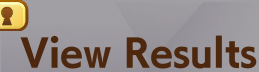
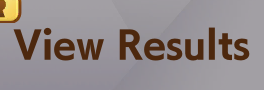
Update button images and add new buttons.

diff --git a/android/app/src/main/java/com/steve1316/uma_android_automation/components/Button.kt b/android/app/src/main/java/com/steve1316/uma_android_automation/components/Button.kt
@@ -4,6 +4,11 @@ import com.steve1316.uma_android_automation.components.ComponentInterface
 import com.steve1316.uma_android_automation.components.Template
 import com.steve1316.uma_android_automation.components.Region
 
+object ButtonAgenda : ComponentInterface {
+    override val TAG: String = "ButtonAgenda"
+    override val template = Template("components/button/agenda")
+}
+
 object ButtonAutoSelect : ComponentInterface {
     override val TAG: String = "ButtonAutoSelect"
     override val template = Template("components/button/auto_select")
@@ -181,6 +186,11 @@ object ButtonNextWithImage : ComponentInterface {
     override val template = Template("components/button/next_with_image", region = Region.bottomHalf)
 }
 
+object ButtonNextRaceEnd : ComponentInterface {
+    override val TAG: String = "ButtonNextRaceEnd"
+    override val template = Template("components/button/next_race_end", region = Region.bottomHalf)
+}
+
 object ButtonNo : ComponentInterface {
     override val TAG: String = "ButtonNo"
     override val template = Template("components/button/no", region = Region.bottomHalf)
@@ -219,11 +229,6 @@ object ButtonRaceAgain : ComponentInterface {
 object ButtonRaceDetails : ComponentInterface {
     override val TAG: String = "ButtonRaceDetails"
     override val template = Template("components/button/race_details", region = Region.bottomHalf)
-}
-
-object ButtonRaceEnd : ComponentInterface {
-    override val TAG: String = "ButtonRaceEnd"
-    override val template = Template("components/button/race_end", region = Region.bottomHalf)
 }
 
 object ButtonRaceEvents : ComponentInterface {
@@ -361,6 +366,11 @@ object ButtonViewResults : ComponentInterface {
     override val template = Template("components/button/view_results", region = Region.bottomHalf)
 }
 
+object ButtonWatchConcert : ComponentInterface {
+    override val TAG: String = "ButtonWatchConcert"
+    override val template = Template("components/button/watch_concert", region = Region.bottomHalf)
+}
+
 object ButtonRaceStrategyFront : ComponentInterface {
     override val TAG: String = "ButtonRaceStrategyFront"
     override val template = Template("components/button/strategy_front_select", region = Region.middle)
@@ -468,6 +478,16 @@ object ButtonInheritance : ComponentInterface {
     override val template = Template("components/button/inheritance", region = Region.bottomHalf)
 }
 
+object ButtonPredictions : ComponentInterface {
+    override val TAG: String = "ButtonPredictions"
+    override val template = Template("components/button/predictions", region = Region.bottomHalf)
+}
+
+object ButtonRunners : ComponentInterface {
+    override val TAG: String = "ButtonRunners"
+    override val template = Template("components/button/runners", region = Region.middle)
+}
+
 object ButtonRaceSelectExtra : ComponentInterface {
     override val TAG: String = "ButtonRaceSelectExtra"
     override val template = Template("components/button/race_select_extra", region = Region.bottomHalf)
@@ -486,6 +506,26 @@ object ButtonRaceSelectExtraLockedUraFinals : ComponentInterface {
 object ButtonUnityCupRace : ComponentInterface {
     override val TAG: String = "ButtonUnityCupRace"
     override val template = Template("components/button/unitycup_race", region = Region.bottomHalf)
+}
+
+object ButtonUnityCupRaceFinal : ComponentInterface {
+    override val TAG: String = "ButtonUnityCupRaceFinal"
+    override val template = Template("components/button/unitycup_race_final", region = Region.bottomHalf)
+}
+
+object ButtonUnityCupSeeAllRaceResults : ComponentInterface {
+    override val TAG: String = "ButtonUnityCupSeeAllRaceResults"
+    override val template = Template("components/button/unitycup_see_all_race_results", region = Region.bottomHalf)
+}
+
+object ButtonUnityCupTeam : ComponentInterface {
+    override val TAG: String = "ButtonUnityCupTeam"
+    override val template = Template("components/button/unitycup_team", region = Region.bottomHalf)
+}
+
+object ButtonUnityCupWatchMainRace : ComponentInterface {
+    override val TAG: String = "ButtonUnityCupWatchMainRace"
+    override val template = Template("components/button/unitycup_watch_main_race", region = Region.bottomHalf)
 }
 
 object ButtonRest : ComponentInterface {
